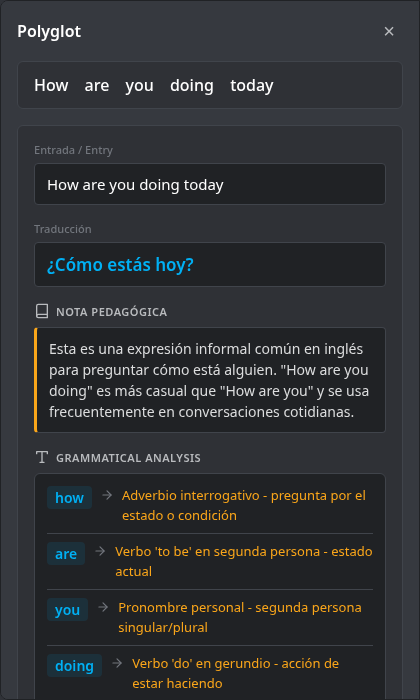
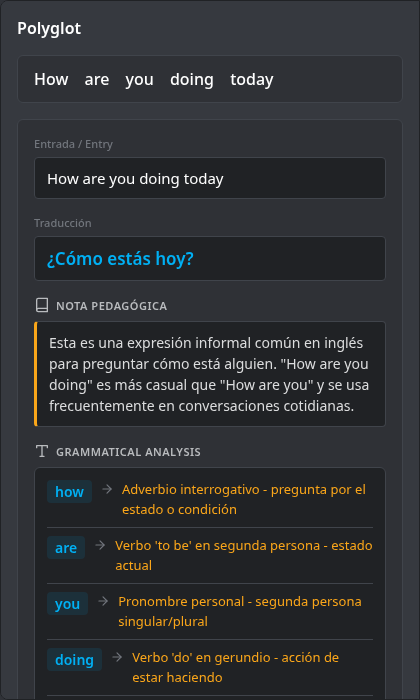
fix: remove redundant X button from header, keep only Close button in footer

diff --git a/src/components/PopupCard.tsx b/src/components/PopupCard.tsx
@@ -47,25 +47,10 @@ export const PopupCard = ({
           overflowY: "auto",
         }}
       >
-        <div style={{ display: "flex", justifyContent: "space-between", alignItems: "center", marginBottom: "16px" }}>
+        <div style={{ marginBottom: "16px" }}>
           <h3 style={{ margin: 0, color: "#ffffff" }}>
             Polyglot
           </h3>
-          <button
-            onClick={onClose}
-            style={{
-              background: "transparent",
-              border: "none",
-              color: "#b9bbbe",
-              cursor: "pointer",
-              fontSize: "18px",
-              padding: "4px 8px",
-              lineHeight: 1,
-            }}
-            type="button"
-          >
-            ×
-          </button>
         </div>
         
         <div style={{ 
@@ -103,6 +88,13 @@ export const PopupCard = ({
 
   const showTabs = isOriginalWord;
 
+  const tabs = isOriginalWord
+    ? [
+        { id: "synonyms", label: "Dictionary" },
+        { id: "translation", label: "Translation" },
+      ]
+    : [];
+
   return (
     <div
       className="polyglot-popup-card"
@@ -122,27 +114,10 @@ export const PopupCard = ({
         overflowY: "auto",
       }}
     >
-      <div style={{ display: "flex", justifyContent: "space-between", alignItems: "center", marginBottom: "16px" }}>
+      <div style={{ marginBottom: "16px" }}>
         <h3 style={{ margin: 0, color: "#ffffff", fontSize: "16px", fontWeight: 600 }}>
           Polyglot
         </h3>
-        <button
-          onClick={onClose}
-          style={{
-            background: "transparent",
-            border: "none",
-            color: "#b9bbbe",
-            cursor: "pointer",
-            fontSize: "20px",
-            padding: "4px 8px",
-            lineHeight: 1,
-            borderRadius: "4px",
-            transition: "background-color 0.15s ease, color 0.15s ease",
-          }}
-          type="button"
-        >
-          ×
-        </button>
       </div>
 
       <div style={{ marginBottom: "16px" }}>

diff --git a/src/screenshots/phrase-example.html b/src/screenshots/phrase-example.html
@@ -26,9 +26,6 @@
     overflow-y: auto;
   }
   .header {
-    display: flex;
-    justify-content: space-between;
-    align-items: center;
     margin-bottom: 16px;
   }
   .header h3 {
@@ -36,16 +33,6 @@
     color: #ffffff;
     font-size: 16px;
     font-weight: 600;
-  }
-  .close-btn {
-    background: transparent;
-    border: none;
-    color: #b9bbbe;
-    cursor: pointer;
-    font-size: 20px;
-    padding: 4px 8px;
-    line-height: 1;
-    border-radius: 4px;
   }
   .word-segment {
     background-color: #2f3136;
@@ -215,7 +202,6 @@
 <div class="panel">
   <div class="header">
     <h3>Polyglot</h3>
-    <button class="close-btn" type="button">×</button>
   </div>
 
   <div class="word-segment">

diff --git a/src/screenshots/word-example.html b/src/screenshots/word-example.html
@@ -26,9 +26,6 @@
     overflow-y: auto;
   }
   .header {
-    display: flex;
-    justify-content: space-between;
-    align-items: center;
     margin-bottom: 16px;
   }
   .header h3 {
@@ -36,16 +33,6 @@
     color: #ffffff;
     font-size: 16px;
     font-weight: 600;
-  }
-  .close-btn {
-    background: transparent;
-    border: none;
-    color: #b9bbbe;
-    cursor: pointer;
-    font-size: 20px;
-    padding: 4px 8px;
-    line-height: 1;
-    border-radius: 4px;
   }
   .word-segment {
     background-color: #2f3136;
@@ -183,7 +170,6 @@
 <div class="panel">
   <div class="header">
     <h3>Polyglot</h3>
-    <button class="close-btn" type="button">×</button>
   </div>
 
   <div class="word-segment">
